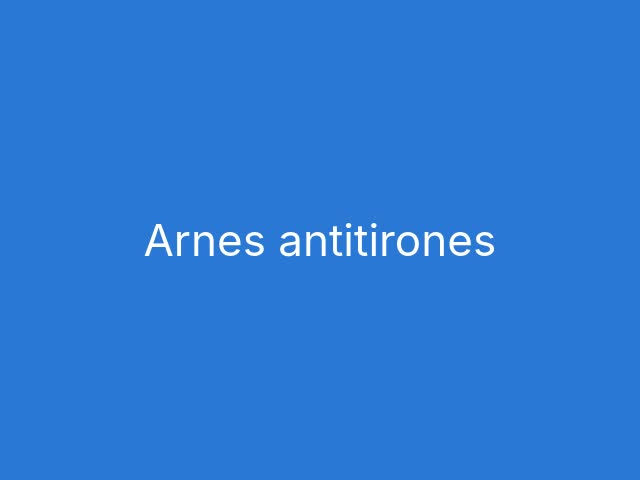
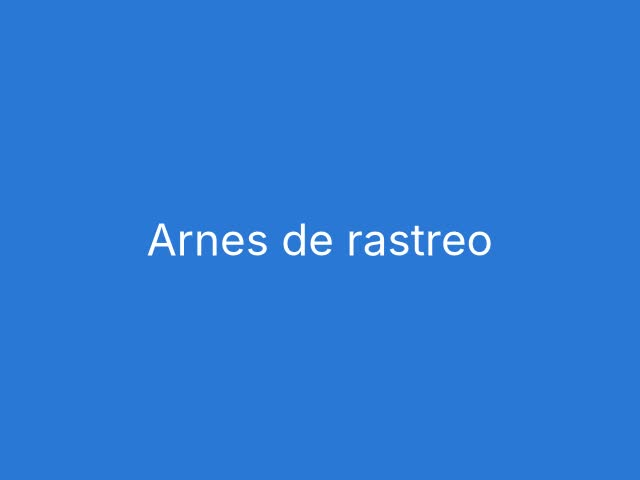
Material de perro de trabajo, registro abierto y buscador
Categorías propias del perro de trabajo (mordida, detección, rastreo…)
con ejemplos al publicar, buscador por palabras, registro sin código de
adiestrador obligatorio para que cualquiera pueda comprar y vender, y
anuncios de ejemplo de perro de trabajo.

Claude-Session: https://claude.ai/code/session_011SPBbPFMoLK84d6wGipGRT

Changed region(s): [[0.2188, 0.4688, 0.7812, 0.5312]]

diff --git a/prisma/seed.ts b/prisma/seed.ts
@@ -274,60 +274,77 @@ async function main() {
     },
   });
 
-  // Material (anuncios entre socios)
-  const arnes = await db.listing.create({
-    data: {
-      sellerId: trainer.id,
-      title: "Arnés antitirones talla M",
-      description: "Arnés con enganche delantero, ideal para aprender a pasear sin tirar. Lo uso en mis clases y lo recomiendo.",
-      category: "Arneses",
-      condition: "NEW",
-      priceCents: 2490,
-      location: "Madrid",
-      photoKey: await samplePhoto("arnes"),
-    },
+  // Material de perro de trabajo (anuncios entre socios, nuevo y de segunda mano)
+  const listing = async (
+    sellerId: string,
+    photo: string,
+    data: { title: string; description: string; category: string; condition: "NEW" | "USED"; priceCents?: number; location: string },
+  ) =>
+    db.listing.create({
+      data: { ...data, sellerId, isFree: data.priceCents == null, photoKey: await samplePhoto(photo) },
+    });
+
+  const arnes = await listing(trainer.id, "arnes", {
+    title: "Arnés de rastreo acolchado",
+    description: "Arnés en Y con anilla dorsal, acolchado en el pecho. Tallas M y L. Lo uso en mis cursos de rastreo.",
+    category: "Arneses",
+    condition: "NEW",
+    priceCents: 4500,
+    location: "Madrid",
   });
-  await db.listing.create({
-    data: {
-      sellerId: trainer.id,
-      title: "Pack de 3 clickers",
-      description: "Clickers con muñequera. Perfectos para empezar a trabajar con refuerzo positivo.",
-      category: "Material de adiestramiento",
-      condition: "NEW",
-      priceCents: 900,
-      location: "Madrid",
-      photoKey: await samplePhoto("clicker"),
-    },
+  await listing(trainer.id, "manga", {
+    title: "Manga de mordida de yute (nivel intermedio)",
+    description: "Manga de yute con funda intercambiable. Ideal para perros jóvenes que ya han pasado del rulo.",
+    category: "Mordida",
+    condition: "NEW",
+    priceCents: 8900,
+    location: "Madrid",
   });
-  const transportin = await db.listing.create({
-    data: {
-      sellerId: ana.id,
-      title: "Transportín para perro mediano",
-      description: "Usado pero en muy buen estado. Toby ya no cabe. 60 × 40 × 40 cm.",
-      category: "Transportines y camas",
-      condition: "USED",
-      priceCents: 1500,
-      location: "Alcobendas",
-      photoKey: await samplePhoto("transportin"),
-    },
+  await listing(trainer.id, "kit", {
+    title: "Kit de olores para detección (5 latas)",
+    description: "Cinco latas con tapa perforada y soporte. Para iniciación a la detección con olores neutros.",
+    category: "Detección",
+    condition: "NEW",
+    priceCents: 3500,
+    location: "Madrid",
   });
-  await db.listing.create({
-    data: {
-      sellerId: pedro.id,
-      title: "Correa larga de 10 metros",
-      description: "La usamos para practicar la llamada en el campo. Algo gastada, pero funciona perfecta. ¡Os la regalo!",
-      category: "Collares y correas",
-      condition: "USED",
-      isFree: true,
-      location: "Getafe",
-      photoKey: await samplePhoto("correa"),
-    },
+  const traje = await listing(pedro.id, "traje", {
+    title: "Traje de figurante completo talla L",
+    description: "Chaqueta y pantalón. Dos temporadas de uso, costuras revisadas y sin roturas.",
+    category: "Mordida",
+    condition: "USED",
+    priceCents: 32000,
+    location: "Getafe",
   });
+  await listing(ana.id, "jaula", {
+    title: "Jaula de aluminio para coche (2 perros)",
+    description: "Doble puerta con cierre y ventilación lateral. Medidas: 90 × 80 × 70 cm. Algún rasguño, nada más.",
+    category: "Transporte",
+    condition: "USED",
+    priceCents: 25000,
+    location: "Alcobendas",
+  });
+  await listing(ana.id, "bocado", {
+    title: "Bocado de yute (pack de 2)",
+    description: "Usados en pocas sesiones. Buenos para cachorros.",
+    category: "Mordida",
+    condition: "USED",
+    priceCents: 1200,
+    location: "Alcobendas",
+  });
+  await listing(pedro.id, "correa", {
+    title: "Línea de rastreo de 10 m (biothane)",
+    description: "No absorbe agua y no se enreda. Algo gastada, pero funciona perfecta. ¡Os la regalo!",
+    category: "Rastreo",
+    condition: "USED",
+    location: "Getafe",
+  });
+
   await db.listingInterest.create({
-    data: { listingId: transportin.id, userId: pedro.id, message: "¡Hola! ¿Sigue disponible? Me vendría genial." },
+    data: { listingId: traje.id, userId: trainer.id, message: "Hola Pedro, ¿me lo dejas probar este fin de semana?" },
   });
   await db.recommendation.create({
-    data: { trainerId: trainer.id, dogId: rocky.id, listingId: arnes.id, note: "Para el paseo sin tirar: con este irá mucho más rápido." },
+    data: { trainerId: trainer.id, dogId: rocky.id, listingId: arnes.id, note: "Para empezar con el rastreo en el parque." },
   });
 
   console.log("✔ Datos de ejemplo creados. Contraseña de todos los usuarios:", PASSWORD);

diff --git a/src/components/market/MarketList.tsx b/src/components/market/MarketList.tsx
@@ -5,7 +5,7 @@ import { db } from "@/lib/db";
 import { LISTING_CATEGORIES } from "@/lib/constants";
 import { ListingCard } from "./ListingCard";
 
-export type MarketFilters = { tipo?: string; cat?: string; mios?: string };
+export type MarketFilters = { tipo?: string; cat?: string; mios?: string; q?: string };
 
 const TYPES = [
   ["", "Todo"],
@@ -23,6 +23,8 @@ export async function MarketList({ userId, base, filters }: { userId: string; ba
     if (filters.tipo === "nuevo") where.condition = "NEW";
     if (filters.tipo === "gratis") where.isFree = true;
     if (filters.cat && LISTING_CATEGORIES.includes(filters.cat)) where.category = filters.cat;
+    const q = filters.q?.trim();
+    if (q) where.OR = [{ title: { contains: q } }, { description: { contains: q } }];
   }
   const listings = await db.listing.findMany({ where, orderBy: { createdAt: "desc" } });
 
@@ -40,15 +42,30 @@ export async function MarketList({ userId, base, filters }: { userId: string; ba
     <>
       <PageHeader
         title="Material"
-        subtitle="Nuevo y de segunda mano, entre socios del club."
+        subtitle="Material de perro de trabajo, nuevo y de segunda mano."
         action={
           <Link href={`${base}/nuevo`} className="btn shrink-0">
             + Publicar
           </Link>
         }
       />
+      {!mine && (
+        <form action={base} className="mb-3 flex gap-2" role="search">
+          {filters.tipo && <input type="hidden" name="tipo" value={filters.tipo} />}
+          {filters.cat && <input type="hidden" name="cat" value={filters.cat} />}
+          <input
+            name="q"
+            type="search"
+            defaultValue={filters.q ?? ""}
+            placeholder="Buscar: manga, bozal, jaula…"
+            aria-label="Buscar material"
+            className="input"
+          />
+          <button className="btn shrink-0">Buscar</button>
+        </form>
+      )}
       <div className="mb-3 flex gap-2 overflow-x-auto pb-1">
-        <Link href={base} className={chip(!mine && !filters.tipo)}>
+        <Link href={href({ tipo: "", mios: "" })} className={chip(!mine && !filters.tipo)}>
           Todo
         </Link>
         {TYPES.slice(1).map(([value, label]) => (
@@ -73,7 +90,11 @@ export async function MarketList({ userId, base, filters }: { userId: string; ba
         </div>
       )}
       {listings.length === 0 ? (
-        <Empty>{mine ? "Aún no has publicado nada. ¡Anímate con lo que ya no uses!" : "No hay anuncios con estos filtros."}</Empty>
+        <Empty>{mine
+            ? "Aún no has publicado nada. ¡Anímate con lo que ya no uses!"
+            : filters.q
+              ? `No hay anuncios con «${filters.q}». Prueba con otra palabra.`
+              : "No hay anuncios con estos filtros."}</Empty>
       ) : (
         <ul className="grid grid-cols-2 gap-3 md:grid-cols-3">
           {listings.map((l) => (

diff --git a/src/components/market/ListingFields.tsx b/src/components/market/ListingFields.tsx
@@ -1,4 +1,4 @@
-import { LISTING_CATEGORIES } from "@/lib/constants";
+import { LISTING_CATEGORIES, LISTING_CATEGORY_HINTS } from "@/lib/constants";
 import { MAX_IMAGE_MB } from "@/lib/storage";
 import { Field, TextArea } from "../Field";
 
@@ -16,7 +16,7 @@ type Listing = {
 export function ListingFields({ listing }: { listing?: Listing }) {
   return (
     <div className="space-y-3">
-      <Field label="¿Qué ofreces?" name="title" placeholder="Ej.: Arnés antitirones talla M" defaultValue={listing?.title} required />
+      <Field label="¿Qué ofreces?" name="title" placeholder="Ej.: Manga de mordida de yute" defaultValue={listing?.title} required />
       <div className="grid grid-cols-2 gap-3">
         <div>
           <label htmlFor="category" className="label">
@@ -24,7 +24,9 @@ export function ListingFields({ listing }: { listing?: Listing }) {
           </label>
           <select id="category" name="category" className="input" defaultValue={listing?.category ?? LISTING_CATEGORIES[0]}>
             {LISTING_CATEGORIES.map((c) => (
-              <option key={c}>{c}</option>
+              <option key={c} value={c}>
+                {c} ({LISTING_CATEGORY_HINTS[c]})
+              </option>
             ))}
           </select>
         </div>
@@ -42,7 +44,7 @@ export function ListingFields({ listing }: { listing?: Listing }) {
         label="Descripción"
         name="description"
         rows={4}
-        placeholder="Talla, estado, para qué perro sirve…"
+        placeholder="Marca, talla, nivel, estado, uso que ha tenido…"
         defaultValue={listing?.description}
         required
       />

diff --git a/src/lib/constants.ts b/src/lib/constants.ts
@@ -6,17 +6,33 @@ export const ASSIGNMENT_STATUS = { PENDING: "PENDING", DONE: "DONE" } as const;
 
 export const DOG_SEX: Record<string, string> = { MALE: "Macho", FEMALE: "Hembra" };
 
+// Categorías de material, pensadas para el perro de trabajo.
 export const LISTING_CATEGORIES = [
-  "Collares y correas",
+  "Mordida",
+  "Detección",
+  "Rastreo",
+  "Obediencia y control",
   "Arneses",
-  "Material de adiestramiento",
-  "Juguetes",
-  "Premios y comida",
-  "Transportines y camas",
-  "Ropa y accesorios",
-  "Servicios",
+  "Motivadores",
+  "Transporte",
+  "Equipo del guía",
+  "Cursos y servicios",
   "Otros",
 ];
+
+/** Ejemplos de qué entra en cada categoría (se muestran al publicar). */
+export const LISTING_CATEGORY_HINTS: Record<string, string> = {
+  Mordida: "mangas, trajes, bocados, látigos",
+  Detección: "kits de olores, cajas, contenedores",
+  Rastreo: "líneas largas, banderines",
+  "Obediencia y control": "collares, correas, tiradores, bozales",
+  Arneses: "de rastreo, de tiro, de protección",
+  Motivadores: "rulos, pelotas, mordedores",
+  Transporte: "jaulas, transportines, equipo para el coche",
+  "Equipo del guía": "ropa, riñoneras, bolsas de premios",
+  "Cursos y servicios": "seminarios, sesiones, figurante",
+  Otros: "todo lo demás",
+};
 
 export const LISTING_CONDITION: Record<string, string> = { NEW: "Nuevo", USED: "Segunda mano" };
 

diff --git a/src/app/registro/RegisterForm.tsx b/src/app/registro/RegisterForm.tsx
@@ -14,8 +14,8 @@ export function RegisterForm() {
         <legend className="label">Soy…</legend>
         {(
           [
-            ["CLIENT", "Cliente / familia"],
-            ["TRAINER", "Adiestrador/a"],
+            ["CLIENT", "Particular / cliente"],
+            ["TRAINER", "Profesional / adiestrador"],
           ] as const
         ).map(([value, label]) => (
           <label
@@ -45,14 +45,13 @@ export function RegisterForm() {
       {role === "CLIENT" && (
         <>
           <Field
-            label="Código de tu adiestrador"
+            label="Código de tu adiestrador (si tienes)"
             name="inviteCode"
             placeholder="Ej.: MARTA-1234"
             autoCapitalize="characters"
-            required
           />
           <div className="rounded-xl bg-gray-50 p-3">
-            <p className="mb-3 text-sm font-medium">Tu perro (puedes añadir más después)</p>
+            <p className="mb-3 text-sm font-medium">Tu perro (opcional, puedes añadir más después)</p>
             <div className="space-y-3">
               <Field label="Nombre del perro" name="dogName" />
               <Field label="Raza" name="dogBreed" />

diff --git a/src/app/actions/auth.ts b/src/app/actions/auth.ts
@@ -37,10 +37,11 @@ export async function register(_: FormState, form: FormData): Promise<FormState>
   if (await db.user.findUnique({ where: { email } })) return { error: "Ya existe una cuenta con ese correo." };
 
   let trainerId: string | undefined;
-  if (role === ROLES.CLIENT) {
-    const code = text(form, "inviteCode").toUpperCase();
-    const trainer = code ? await db.user.findUnique({ where: { inviteCode: code } }) : null;
-    if (!trainer) return { error: "El código de invitación no es válido. Pídeselo a tu adiestrador." };
+  // El código del adiestrador es opcional: sin él, la cuenta sirve para el material y la formación.
+  const code = text(form, "inviteCode").toUpperCase();
+  if (role === ROLES.CLIENT && code) {
+    const trainer = await db.user.findUnique({ where: { inviteCode: code } });
+    if (!trainer) return { error: "El código de invitación no es válido. Revísalo o déjalo en blanco." };
     trainerId = trainer.id;
   }
 

diff --git a/src/app/page.tsx b/src/app/page.tsx
@@ -16,8 +16,8 @@ export default async function Home() {
         </h1>
         <p className="mt-4 font-semibold text-gray-700">{BRAND.slogan}</p>
         <p className="mt-3 text-gray-600">
-          El punto de encuentro de adiestradores, familias y amantes del perro: deberes, vídeos, evolución de cada
-          perro y, muy pronto, material nuevo y de segunda mano.
+          El punto de encuentro del perro de trabajo: compra y vende material nuevo y de segunda mano (mordida,
+          detección, rastreo…) y, si eres adiestrador, sigue la evolución de cada perro con tus clientes.
         </p>
       </div>
       <div className="flex flex-col gap-3">

diff --git a/src/app/cliente/page.tsx b/src/app/cliente/page.tsx
@@ -39,7 +39,7 @@ export default async function ClientHome() {
 
       {!trainer && (
         <div className="card">
-          <h2 className="h2 mb-3">Únete a tu adiestrador</h2>
+          <h2 className="h2 mb-3">¿Tienes adiestrador? Únete con su código</h2>
           <ActionForm action={joinTrainer}>
             <Field label="Código de invitación" name="inviteCode" placeholder="Ej.: MARTA-1234" required />
             <SubmitButton>Unirme</SubmitButton>
